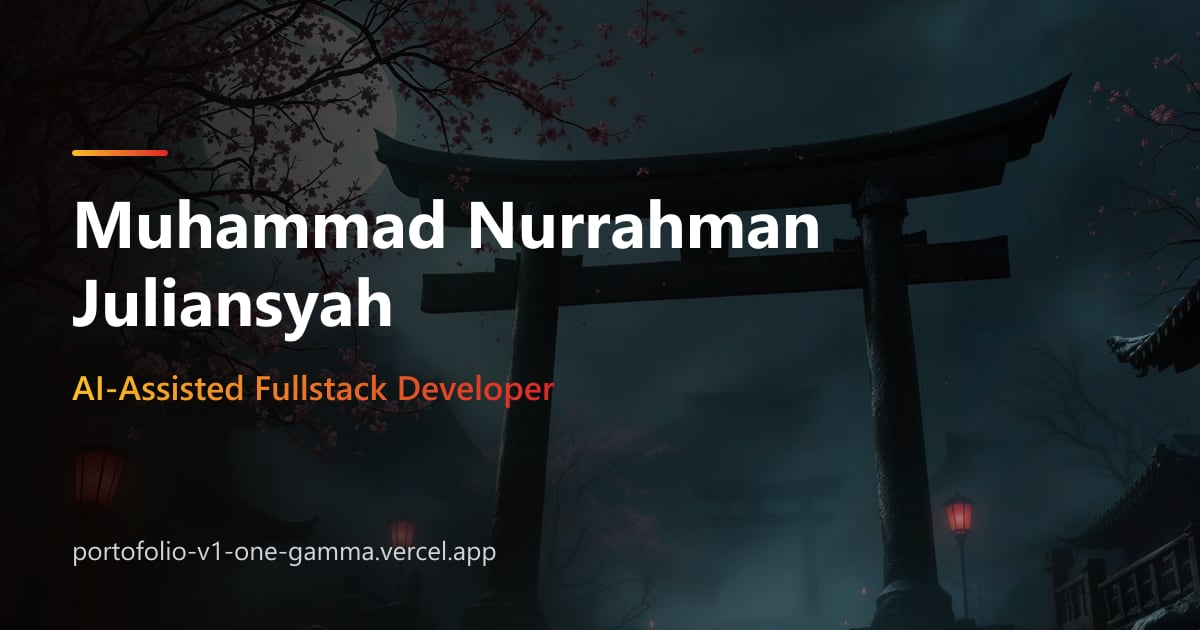
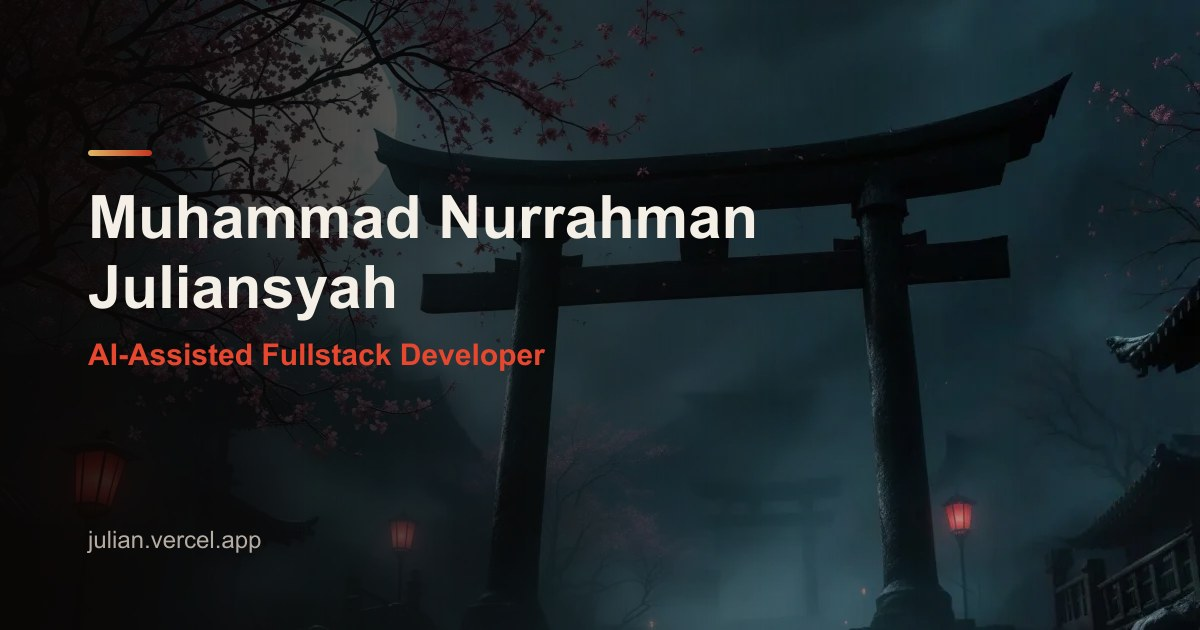
Switch to julian.vercel.app and improve technical SEO
- Rename every hardcoded domain reference (site.js, index.html, robots.txt,
  sitemap generator, integrity test, README) from the old
  portofolio-v1-one-gamma.vercel.app to julian.vercel.app after the Vercel
  project rename.
- Regenerate public/og-image.jpg: the old domain was baked into the image's
  pixels, not just the meta tags, so link previews would have kept showing
  it even after the code changed.
- Add scripts/generate-sitemap.mjs, wired as a "prebuild" step: it now lists
  the homepage plus one real URL per project (fetched live from Supabase)
  instead of four hash-fragment URLs (.../#Home, .../#About, ...), which
  Google treats as duplicates of "/" and never actually indexes separately.
- Enrich the Person JSON-LD in index.html with knowsAbout (tech stack),
  alumniOf, email, and an og:locale:alternate hint for the bilingual UI.

diff --git a/index.html b/index.html
@@ -47,35 +47,59 @@
   <!-- Open Graph -->
   <meta property="og:type" content="website" />
   <meta property="og:locale" content="id_ID" />
-  <meta property="og:url" content="https://portofolio-v1-one-gamma.vercel.app/" />
+  <!-- The site toggles ID/EN client-side rather than serving separate URLs, so this is a locale hint
+       for platforms unfurling the link — not a substitute for hreflang, which needs distinct URLs. -->
+  <meta property="og:locale:alternate" content="en_US" />
+  <meta property="og:url" content="https://julian.vercel.app/" />
   <meta property="og:title" content="Muhammad Nurrahman Juliansyah | AI-Assisted Fullstack Developer" />
   <meta property="og:description" content="Website resmi dan portofolio Muhammad Nurrahman Juliansyah, AI-Assisted Fullstack Developer." />
-  <meta property="og:image" content="https://portofolio-v1-one-gamma.vercel.app/og-image.jpg" />
+  <meta property="og:image" content="https://julian.vercel.app/og-image.jpg" />
   <meta property="og:image:width" content="1200" />
   <meta property="og:image:height" content="630" />
   <meta property="og:image:alt" content="Muhammad Nurrahman Juliansyah — AI-Assisted Fullstack Developer" />
 
   <!-- Twitter -->
   <meta name="twitter:card" content="summary_large_image" />
-  <meta name="twitter:url" content="https://portofolio-v1-one-gamma.vercel.app/" />
+  <meta name="twitter:url" content="https://julian.vercel.app/" />
   <meta name="twitter:title" content="Muhammad Nurrahman Juliansyah | AI-Assisted Fullstack Developer" />
   <meta name="twitter:description" content="Website resmi dan portofolio Muhammad Nurrahman Juliansyah." />
-  <meta name="twitter:image" content="https://portofolio-v1-one-gamma.vercel.app/og-image.jpg" />
+  <meta name="twitter:image" content="https://julian.vercel.app/og-image.jpg" />
   <meta name="twitter:image:alt" content="Muhammad Nurrahman Juliansyah — AI-Assisted Fullstack Developer" />
 
   <!-- Canonical -->
-  <link rel="canonical" href="https://portofolio-v1-one-gamma.vercel.app/" />
+  <link rel="canonical" href="https://julian.vercel.app/" />
 
-  <!-- Structured Data: Person -->
+  <!-- Structured Data: Person. knowsAbout/alumniOf give Google (and any AI answer engine reading
+       this page) the keywords and context to associate this name with — matters for both classic
+       search and "who is..." style AI-generated answers. Keep this in sync with src/config/site.js
+       and the About section by hand; it's a static file, not wired to the live data. -->
   <script type="application/ld+json">
   {
     "@context": "https://schema.org",
     "@type": "Person",
     "name": "Muhammad Nurrahman Juliansyah",
-    "url": "https://portofolio-v1-one-gamma.vercel.app/",
-    "image": "https://portofolio-v1-one-gamma.vercel.app/Portrait.webp",
+    "alternateName": "Julian",
+    "url": "https://julian.vercel.app/",
+    "image": "https://julian.vercel.app/Portrait.webp",
     "jobTitle": "AI-Assisted Fullstack Developer",
     "description": "Combining AI-assisted workflows, clean design, and full-stack architecture to build web applications that are fast, scalable, and intuitive. Focused on crafting seamless UI, robust APIs, and end-to-end user experiences.",
+    "email": "mailto:muchammad.nur02@gmail.com",
+    "knowsAbout": [
+      "React",
+      "Next.js",
+      "JavaScript",
+      "TypeScript",
+      "Node.js",
+      "Tailwind CSS",
+      "Supabase",
+      "Three.js",
+      "Full-Stack Web Development",
+      "AI-Assisted Development"
+    ],
+    "alumniOf": {
+      "@type": "CollegeOrUniversity",
+      "name": "Universitas Ivet Semarang"
+    },
     "sameAs": [
       "https://www.linkedin.com/in/MuchammadNur/",
       "https://github.com/MuhammadNur02",

diff --git a/src/site-integrity.test.js b/src/site-integrity.test.js
@@ -9,7 +9,7 @@ const root = path.resolve(path.dirname(fileURLToPath(import.meta.url)), "..");
 const read = (file) => fs.readFileSync(path.join(root, file), "utf8");
 const existsInPublic = (urlPath) => fs.existsSync(path.join(root, "public", decodeURIComponent(urlPath.replace(/^\//, ""))));
 
-const SITE = "https://portofolio-v1-one-gamma.vercel.app";
+const SITE = "https://julian.vercel.app";
 // Components that no page renders (their assets may be gone). Remove an entry once the file is deleted.
 const UNUSED_COMPONENTS = [];
 

diff --git a/src/config/site.js b/src/config/site.js
@@ -2,7 +2,7 @@
 // Edit this one file to update your name, links, CV and availability across the whole site.
 
 export const SITE = {
-  url: "https://portofolio-v1-one-gamma.vercel.app",
+  url: "https://julian.vercel.app",
   name: "Muhammad Nurrahman Juliansyah",
   shortName: "Julian",
   role: "AI-Assisted Fullstack Developer",

diff --git a/README.md b/README.md
@@ -4,7 +4,7 @@
 
 A bilingual (Bahasa Indonesia / English) portfolio for an **AI-assisted fullstack developer**, designed around a Japanese shrine theme: a real-time 3D backdrop, a "blood-moon" intro that cuts open like a katana, a layered parallax torii gate, and an admin dashboard that updates every project, certificate, photo and testimonial without touching code.
 
-**Live:** https://portofolio-v1-one-gamma.vercel.app
+**Live:** https://julian.vercel.app
 
 <p align="center">
   <img src="docs/screenshots/home-desktop.webp" alt="Hero: availability badge, FULLSTACK DEVELOPER headline, calls to action and live stats over the 3D samurai backdrop" width="820" />
